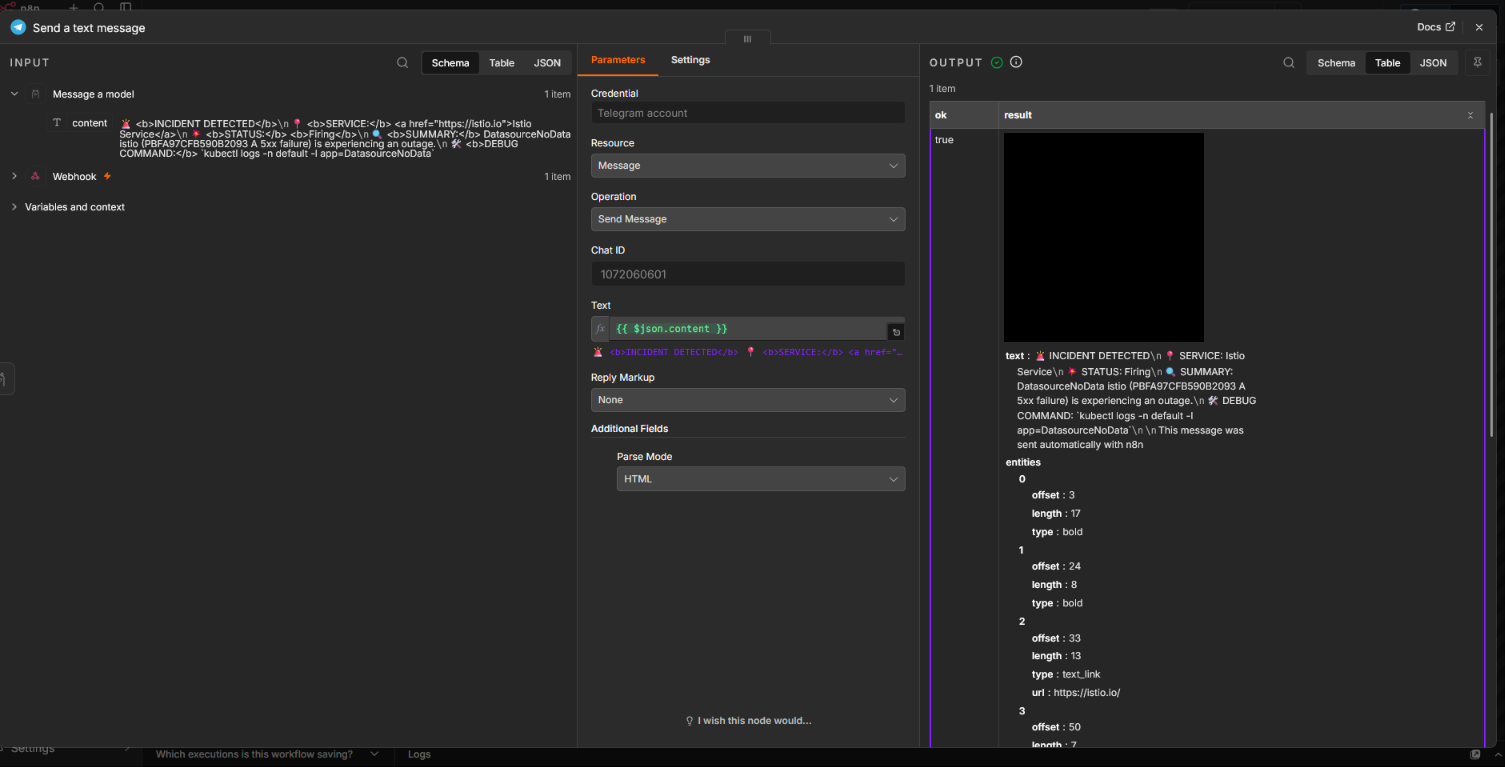
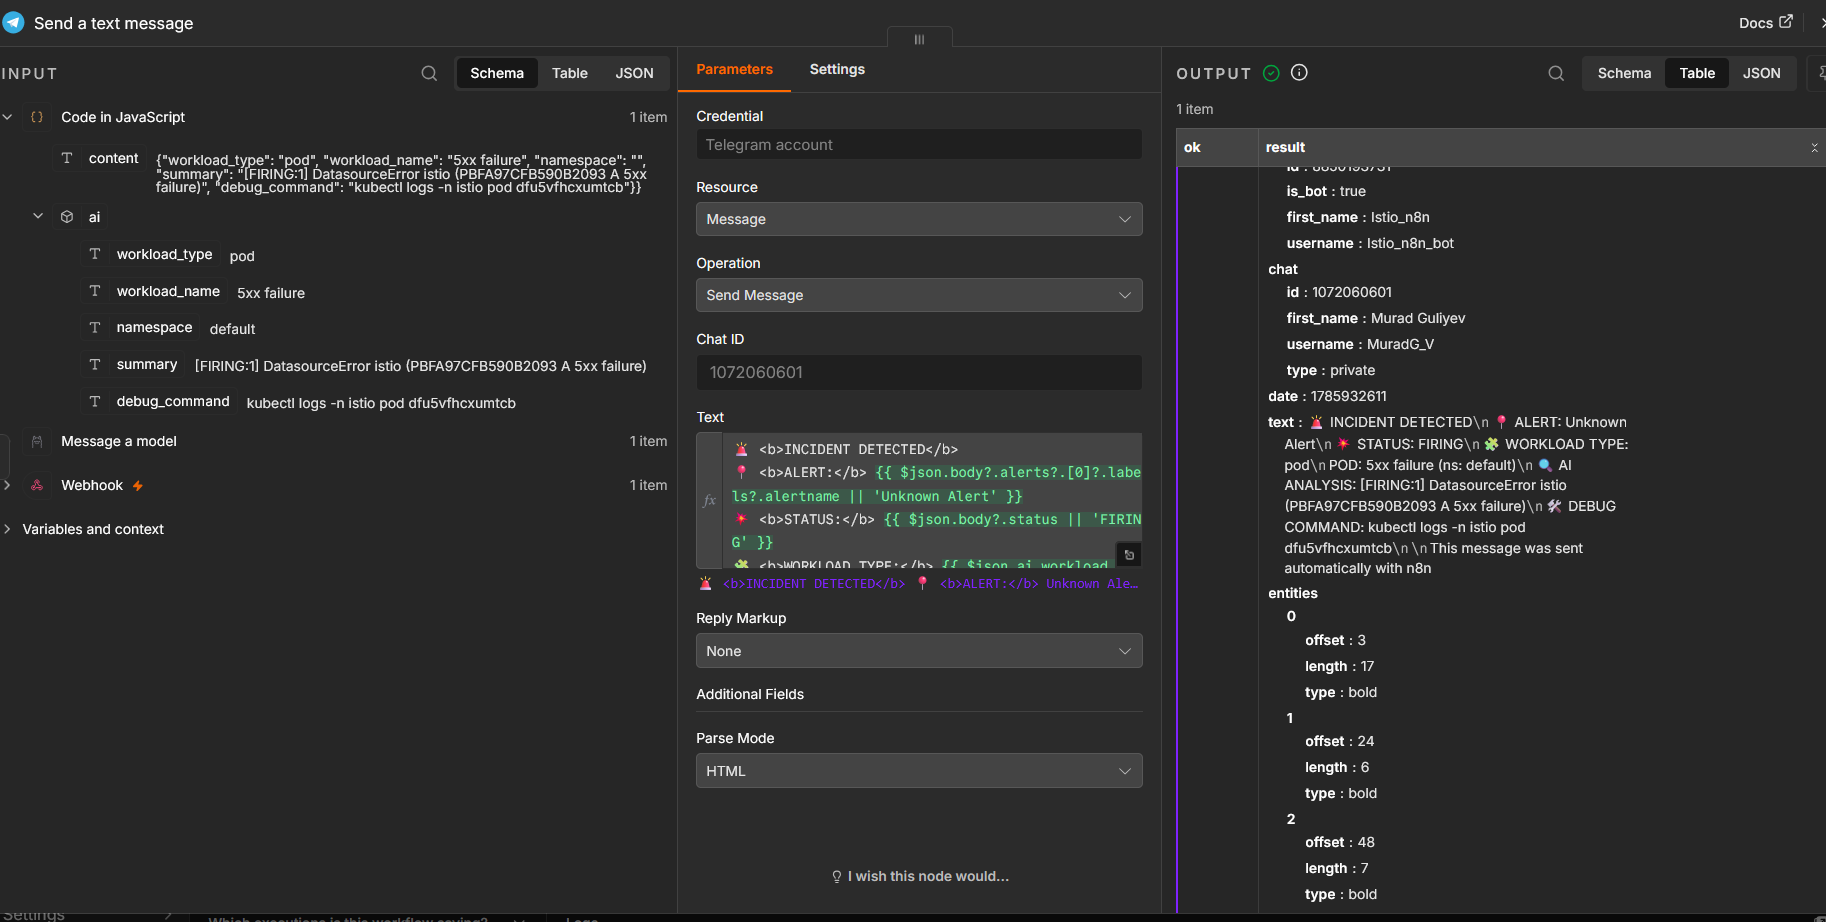
updated version

diff --git a/README.md b/README.md
@@ -1,72 +1,225 @@
 # AI-Powered SRE Incident Automation Platform
 
-**System Documentation**
-Environment: WSL2 / Minikube / Istio / n8n / Ollama / Telegram
+AI-assisted incident response pipeline using Kubernetes, Istio, Grafana, n8n, Ollama, and Telegram.
 
----
+## 1) Executive Summary
 
-## 1. Executive Summary
+This project implements an event-driven incident workflow for microservices running in Kubernetes:
 
-I have created an event-driven SRE incident response pipeline on Kubernetes. Istio sidecars capture service traffic metrics, Prometheus records failures, Grafana fires alerts, and an n8n workflow routes each alert to a local Ollama model for analysis. The model produces a root-cause summary and sends an actionable alert card to Telegram.
+1. Istio sidecars expose service traffic and error telemetry.
+2. Prometheus stores mesh metrics.
+3. Grafana Alerting evaluates SLO/SLI thresholds and sends webhooks.
+4. n8n receives the alert, calls Ollama for triage output, normalizes model output, and forwards a clean incident card to Telegram.
 
-## 2. System Architecture
+Outcome: the on-call engineer receives a readable incident summary and first debug command within seconds of alert firing.
 
-Traffic flows from the gateway api into the Bookinfo microservices, where Envoy sidecars report metrics to Prometheus. Grafana alerting rules watch these metrics and send a webhook to n8n when thresholds are breached. n8n forwards the alert payload to Ollama, which generates an incident report that is posted to a Telegram bot. All of the services — n8n, Ollama, and Kubernetes (Minikube) — are running on Docker.
+## 2) Stack and Runtime
 
+- OS/runtime: WSL2 host + Docker
+- Kubernetes: Minikube
+- Service mesh: Istio (Envoy sidecars)
+- Monitoring and alerting: Prometheus + Grafana Alerting
+- Automation and orchestration: n8n
+- Local LLM inference: Ollama
+- Notification channel: Telegram Bot API
+
+## 3) High-Level Architecture
+
+```text
+Client Traffic
+	-> Gateway API / Istio Gateway
+	-> Bookinfo Services (with Envoy sidecars)
+	-> Prometheus (metrics scrape)
+	-> Grafana Alert Rule fires
+	-> n8n Webhook Trigger
+	-> Ollama (incident analysis)
+	-> n8n JSON parsing/normalization
+	-> Telegram incident message
 ```
-Gateway → Bookinfo Services (Envoy) → Prometheus → Grafana Alerting → n8n Webhook → Ollama → Telegram
-```
 
-## 3. Service Mesh & Sidecar Injection
+Design goal: keep AI in the loop for summarization and guidance, but keep deterministic parsing and formatting logic in n8n to avoid brittle notifications.
 
-A service mesh solves the problem of managing communication between the many small services that make up a modern application — things like routing traffic, encrypting it, retrying failed requests, controlling which services can talk to each other, and monitoring traffic health — without having to build that logic into every service's code. It does this by attaching a lightweight proxy (a "sidecar") next to each service, so all traffic passes through these proxies instead of directly between services.
+## 4) Mesh Setup and Sidecar Injection
 
-Istio is the most widely used service mesh: it automatically adds these sidecars to every service running in Kubernetes and gives you traffic control, security (encrypting traffic and enforcing which services can call which), and real-time visibility into how traffic is flowing — all without touching application code. In this project, it's Istio's sidecars that report traffic metrics like error rates, which is what triggers the alerting and automated incident response pipeline.
+Istio sidecar injection is enabled on the default namespace, so Bookinfo workloads get an Envoy proxy automatically. Pod readiness (2/2 containers) verifies app + sidecar presence.
 
-The default namespace was labeled `istio-injection=enabled`, so every pod deployed into it automatically receives an Envoy sidecar. This was confirmed by checking pod status: each Bookinfo pod shows 2/2 READY containers, one for the application and one for the Envoy proxy. The dedicated gateway proxy for the Kubernetes Gateway API resource (bookinfo-gateway-istio) also runs in the default namespace as the actual entry point for traffic. The istio-system namespace was checked separately to confirm istiod, Prometheus, and Kiali were running; it also still shows a standing istio-ingressgateway, which is installed by default with Istio's demo profile but is unused here since ingress is handled through the Gateway API instead.
+Checks performed:
 
-![kubectl get pods showing 2/2 READY](screenshots/01-kubectl-get-pods-bookinfo.png)
+- Bookinfo pods in default namespace: sidecars present (2/2 READY)
+- `istio-system` core components: `istiod`, `prometheus`, `kiali` running
+- Gateway proxy present for Gateway API ingress path
 
-![kubectl get pods -n istio-system](screenshots/02-kubectl-get-pods-istio-system.png)
+Artifacts:
 
-## 4. Observability & Traffic Graph
+![kubectl get pods showing sidecars](screenshots/01-kubectl-get-pods-bookinfo.png)
+![kubectl get pods in istio-system](screenshots/02-kubectl-get-pods-istio-system.png)
 
-Kiali was used to visualize real-time traffic between services. The mesh graph confirms the core istio-system infrastructure is healthy, and the traffic graph shows normal green traffic flowing from productpage through reviews to ratings, indicating successful requests across the mesh.
+## 5) Observability Validation with Kiali
+
+Kiali was used to validate both control-plane health and runtime traffic flow:
+
+- Mesh graph confirms the control plane is healthy.
+- Service graph shows normal green path: `productpage -> reviews -> ratings`.
+
+Artifacts:
 
 ![Kiali mesh graph](screenshots/03-kiali-mesh-graph.png)
+![Kiali healthy traffic graph](screenshots/04-kiali-traffic-graph-green.png)
 
-![Kiali traffic graph - green/healthy traffic](screenshots/04-kiali-traffic-graph-green.png)
+## 6) Zero-Trust Policy Validation
 
-## 5. Zero-Trust Security & Authorization Policies
+An Istio `AuthorizationPolicy` (`protect-ratings`) was applied to restrict who can call the `ratings` workload.
 
-An Istio `AuthorizationPolicy` named `protect-ratings` was applied to enforce zero-trust access control on the ratings service. Cross-namespace testing confirmed that requests from the default namespace were blocked with `403 Forbidden` until the policy was updated to explicitly allow traffic from only the ratings namespace, after which normal traffic resumed.
+Validation flow:
+
+1. Deny path tested first (cross-namespace access blocked).
+2. Expected behavior observed: `403 Forbidden`.
+3. Policy adjusted to allow only intended source namespace/workload.
+4. Traffic recovered for approved source.
+
+Artifacts:
 
 ![AuthorizationPolicy YAML](screenshots/05-authorizationpolicy-yaml.png)
+![Blocked traffic with 403 in Kiali](screenshots/06-kiali-traffic-graph-blocked-403.png)
 
-![Kiali traffic graph - blocked traffic (403)](screenshots/06-kiali-traffic-graph-blocked-403.png)
+## 7) AI Incident Workflow in n8n
 
-## 6. Event-Driven AI Incident Response Pipeline
+### 7.1 Node Flow
 
-n8n is a workflow automation tool that lets you connect different systems together visually, without writing custom integration code for each one. You build a workflow as a chain of nodes — one node listens for a trigger (like an incoming webhook), the next node processes or transforms that data, and following nodes send the result somewhere else (an API, a chat app, a database, etc.).
+The n8n workflow is organized into four logical stages:
 
-My n8n workflow was built with three connected nodes: a webhook listener that receives Grafana alerts, a node that sends the alert payload to the local Ollama model for analysis, and a node that delivers the formatted response as a message to Telegram. This automates the path from a raw metric alert to a readable incident report.
+1. `Webhook` node receives Grafana alert payload.
+2. `Ollama` node generates structured incident analysis text.
+3. `Function` node sanitizes/extracts/parses JSON reliably.
+4. `Telegram` node sends normalized incident report.
+
+This separation makes the pipeline resilient even when model output includes markdown fences or extra text.
+
+Artifact:
 
 ![n8n workflow canvas](screenshots/07-n8n-workflow-canvas.png)
 
-## 7. End-to-End Validation & Final Alert
+### 7.2 Function Node (between Ollama and Telegram)
 
-To validate the full pipeline, a fault was injected into the ratings service using an Istio `VirtualService`, forcing a 100% HTTP 500 error rate. Grafana detected the resulting metric spike and fired the webhook, which triggered Ollama to generate an incident report. The final alert was delivered to Telegram with the affected service, status, a summary of the issue, and a suggested debug command.
+Use this code in your n8n `Function` node right after Ollama and before Telegram:
+
+```javascript
+let raw = $json.content.trim();
+
+raw = raw.replace(/^```(?:json)?\s*/i, '').replace(/```\s*$/, '');
+
+function extractFirstJsonObject(str) {
+	const start = str.indexOf('{');
+	if (start === -1) return null;
+
+	let depth = 0;
+	for (let i = start; i < str.length; i++) {
+		if (str[i] === '{') depth++;
+		else if (str[i] === '}') {
+			depth--;
+			if (depth === 0) {
+				return str.slice(start, i + 1);
+			}
+		}
+	}
+	return null;
+}
+
+const jsonStr = extractFirstJsonObject(raw);
+if (!jsonStr) {
+	throw new Error('No balanced JSON object found in model output: ' + raw);
+}
+
+let parsed;
+try {
+	parsed = JSON.parse(jsonStr);
+} catch (err) {
+	throw new Error('Failed to parse extracted JSON: ' + jsonStr);
+}
+
+const ai = {
+	workload_type: parsed.workload_type || 'pod',
+	workload_name: parsed.workload_name || 'unknown',
+	namespace: parsed.namespace || 'default',
+	summary: parsed.summary || 'No summary available.',
+	debug_command: parsed.debug_command ||
+		`kubectl logs -n ${parsed.namespace || 'default'} ${parsed.workload_name || 'unknown'}`
+};
+
+return [{ json: { ...$json, ai } }];
+```
+
+What this does:
+
+1. Removes markdown code fences if Ollama wraps JSON in ```json blocks.
+2. Extracts only the first balanced JSON object from mixed text.
+3. Parses JSON safely and throws explicit errors when malformed.
+4. Applies defaults so Telegram output is never empty.
+5. Returns merged payload as `$json.ai` for downstream formatting.
+
+## 8) End-to-End Failure Simulation
+
+To prove the full loop, a fault was injected into `ratings` (100% HTTP 500 via Istio `VirtualService`).
+
+Expected and observed behavior:
+
+1. Error rate spikes at service mesh metrics layer.
+2. Grafana rule transitions to firing state.
+3. Webhook triggers n8n execution.
+4. Ollama response is parsed by function node.
+5. Telegram receives an actionable incident card.
+
+Artifacts:
 
 ![Fault injection command](screenshots/08-fault-injection-command.png)
-
 ![Grafana alert firing](screenshots/09-grafana-alert-firing.png)
-
-![n8n node output being sent to Telegram](screenshots/10-n8n-telegram-node-output.png)
-
-![n8n execution succeeded](screenshots/11-n8n-execution-succeeded.png)
-
+![n8n Telegram node output](screenshots/10-n8n-telegram-node-output.png)
+![n8n successful execution](screenshots/11-n8n-execution-succeeded.png)
 ![Final Telegram AI SRE alert card](screenshots/12-telegram-alert-final.png)
+
+## 9) Telegram Message Format (Recommended)
+
+For clear paging messages, map `ai` fields to a compact template in the Telegram node:
+
+```text
+[AI SRE INCIDENT]
+Workload: {{$json.ai.workload_type}}/{{$json.ai.workload_name}}
+Namespace: {{$json.ai.namespace}}
+Summary: {{$json.ai.summary}}
+Debug: {{$json.ai.debug_command}}
+```
+
+## 10) Operational Notes
+
+- Keep alerts high-signal: route only actionable severities to Telegram.
+- Keep model prompts strict: ask for one JSON object and fixed keys.
+- Keep deterministic guardrails: always parse and validate in n8n before notification.
+- Keep a fallback command: default `kubectl logs` command is useful under pressure.
+
+## 11) Troubleshooting
+
+1. No Telegram message:
+	 - Confirm Grafana webhook target is reachable from Grafana container.
+	 - Check n8n execution history for node-level errors.
+	 - Validate Telegram bot token/chat ID.
+2. JSON parse errors:
+	 - Ensure Ollama prompt requests strict JSON only.
+	 - Keep the function node in place to strip fences and isolate first JSON object.
+3. Alert not firing:
+	 - Verify Prometheus query and alert thresholds.
+	 - Confirm fault injection is active and affecting live traffic.
+4. Missing workload fields:
+	 - Inspect incoming Grafana payload fields.
+	 - Extend function node mapping if your alert labels differ.
+
+## 12) Future Improvements
+
+1. Add deduplication in n8n to reduce alert storms.
+2. Attach runbook links based on workload name/namespace.
+3. Add severity-aware routing (different Telegram channels).
+4. Persist incidents to a datastore for trend analysis.
+5. Add auto-remediation suggestions with confidence labels.
 
 ## Conclusion
 
-This lab gave me hands-on experience with the full lifecycle of an incident, from detection to response — something I had only understood in theory before. Working with Istio taught me how a service mesh actually operates in practice: injecting sidecars, reading traffic in Kiali, and enforcing zero-trust access control with AuthorizationPolicies, including deliberately breaking traffic to see the enforcement happen in real time. Building the automation side with n8n and a local Ollama model changed how I think about incident response, showing me how an AI model can do the first pass of root-cause analysis and hand the on-call engineer a head start the moment an alert fires. Overall, this project pushed me past just knowing the names of these tools and into actually operating them together as a system, giving me a stronger foundation for SRE and platform engineering work and a clearer sense of how AI can support incident response rather than replace the judgment of the engineer on call.
+This lab demonstrates a practical pattern for AI-augmented SRE operations: Istio provides high-fidelity telemetry, Grafana detects incidents, and n8n + Ollama converts raw alerts into fast, human-readable triage guidance. The key engineering choice is combining flexible LLM reasoning with deterministic post-processing, which keeps the final incident message reliable for on-call use.
